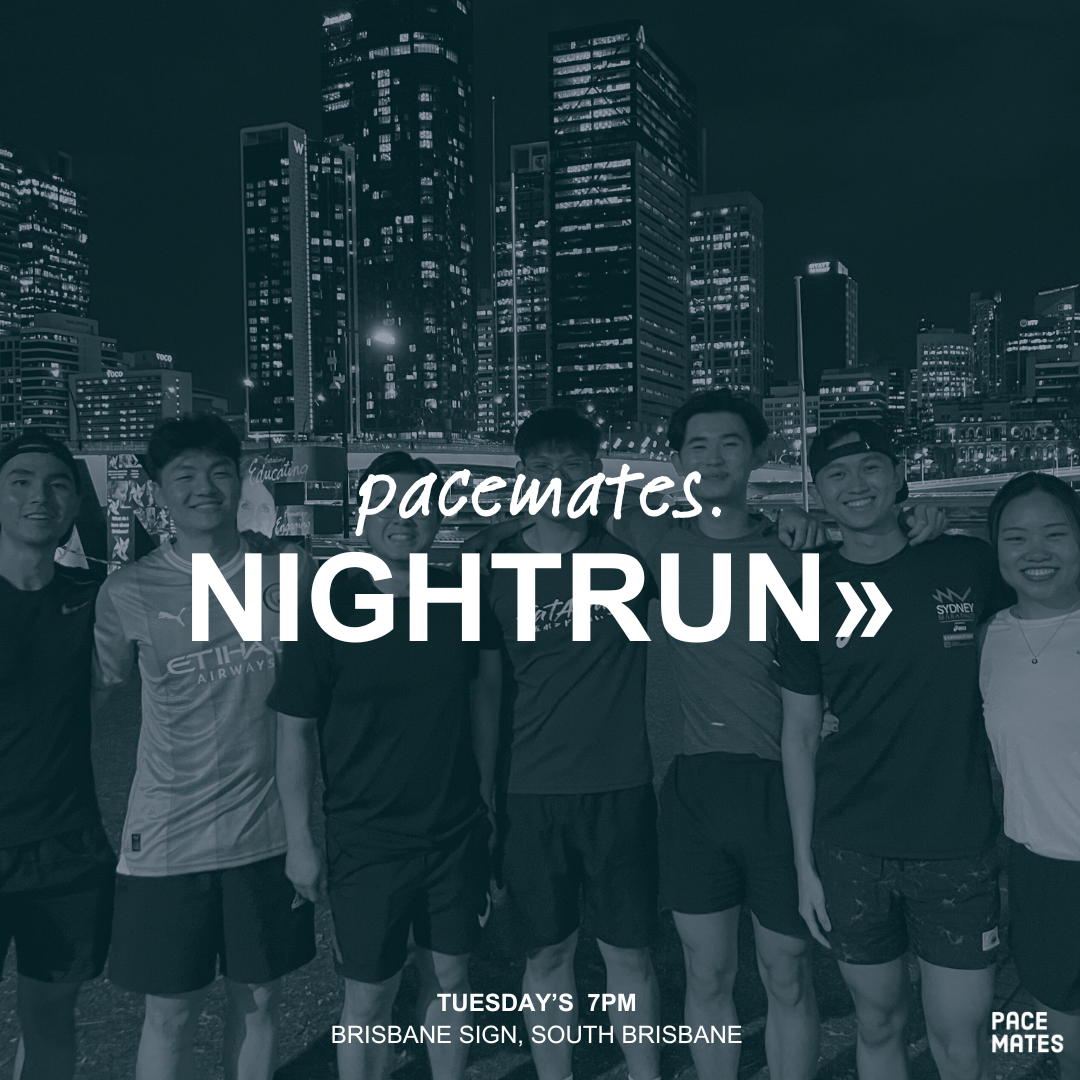
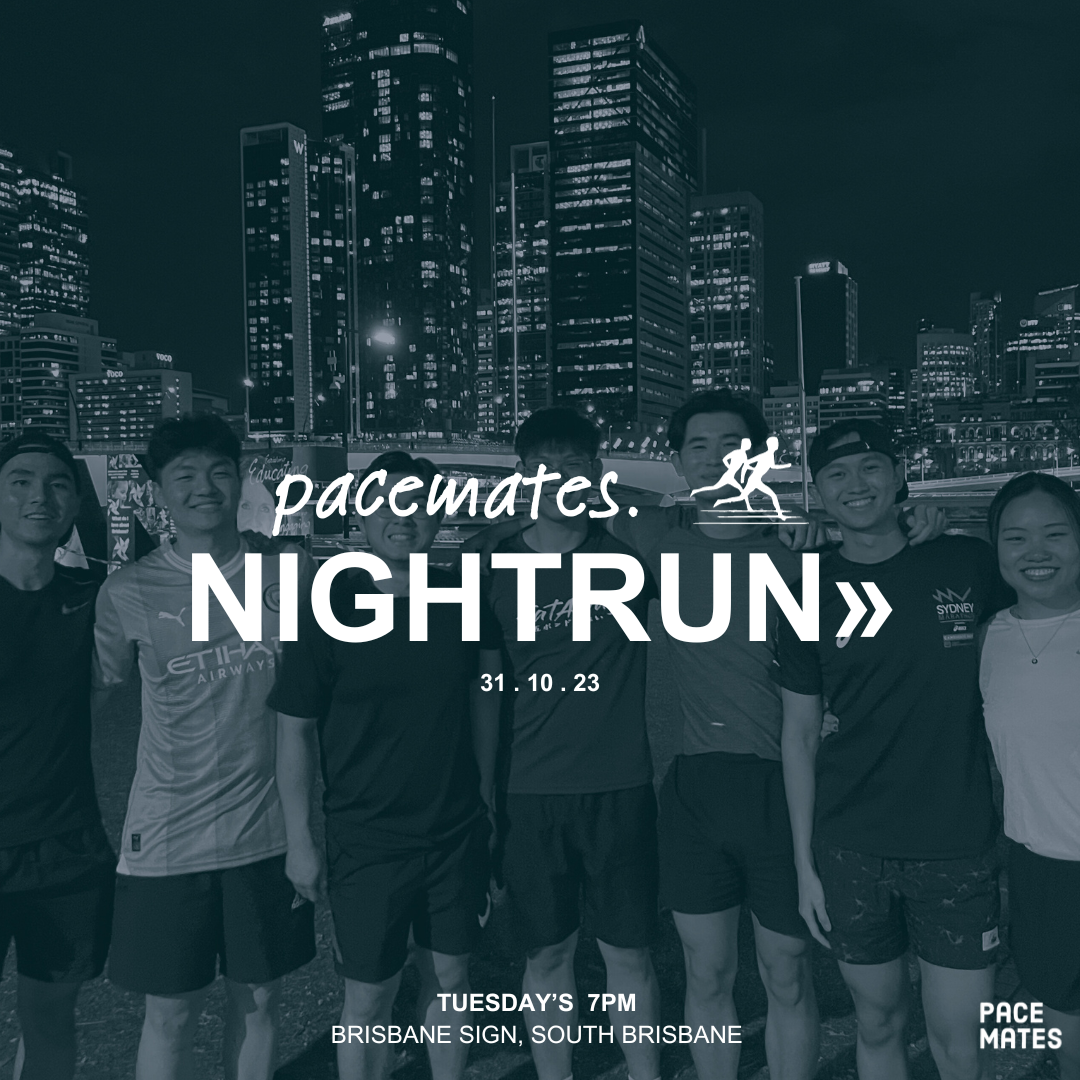
PCE-10:update image

diff --git a/src/app/components/centre.tsx b/src/app/components/centre.tsx
@@ -13,10 +13,8 @@ const Centre: React.FC = () => {
           <Image src={PMRC3} width={600} alt="PMRC-3" priority />
         </div>
 
-
         <div className="space-y-3">
           <div>07 . 11 . 23</div>
-          {/* <div>7 pm</div> */}
           <div>7PM @ BRISBANE SIGN, South Brisbane</div>
           <div>3km - Henry</div>
           <div>
@@ -43,7 +41,6 @@ const Centre: React.FC = () => {
 
         <div className="space-y-3">
           <div>31 . 10 . 23</div>
-          {/* <div>7 pm</div> */}
           <div>7PM @ BRISBANE SIGN, South Brisbane</div>
           <div>3km - Henry</div>
           <div>5km - Jian</div>
@@ -67,7 +64,6 @@ const Centre: React.FC = () => {
         <div className="space-y-3">
           <p>24 . 10 . 23</p>
           <p>7PM @ BRISBANE SIGN, South Brisbane</p>
-          {/* <p>7 pm</p> */}
           <div>
             <a
               href="https://www.mapmyrun.com/routes/view/5789592190/"
